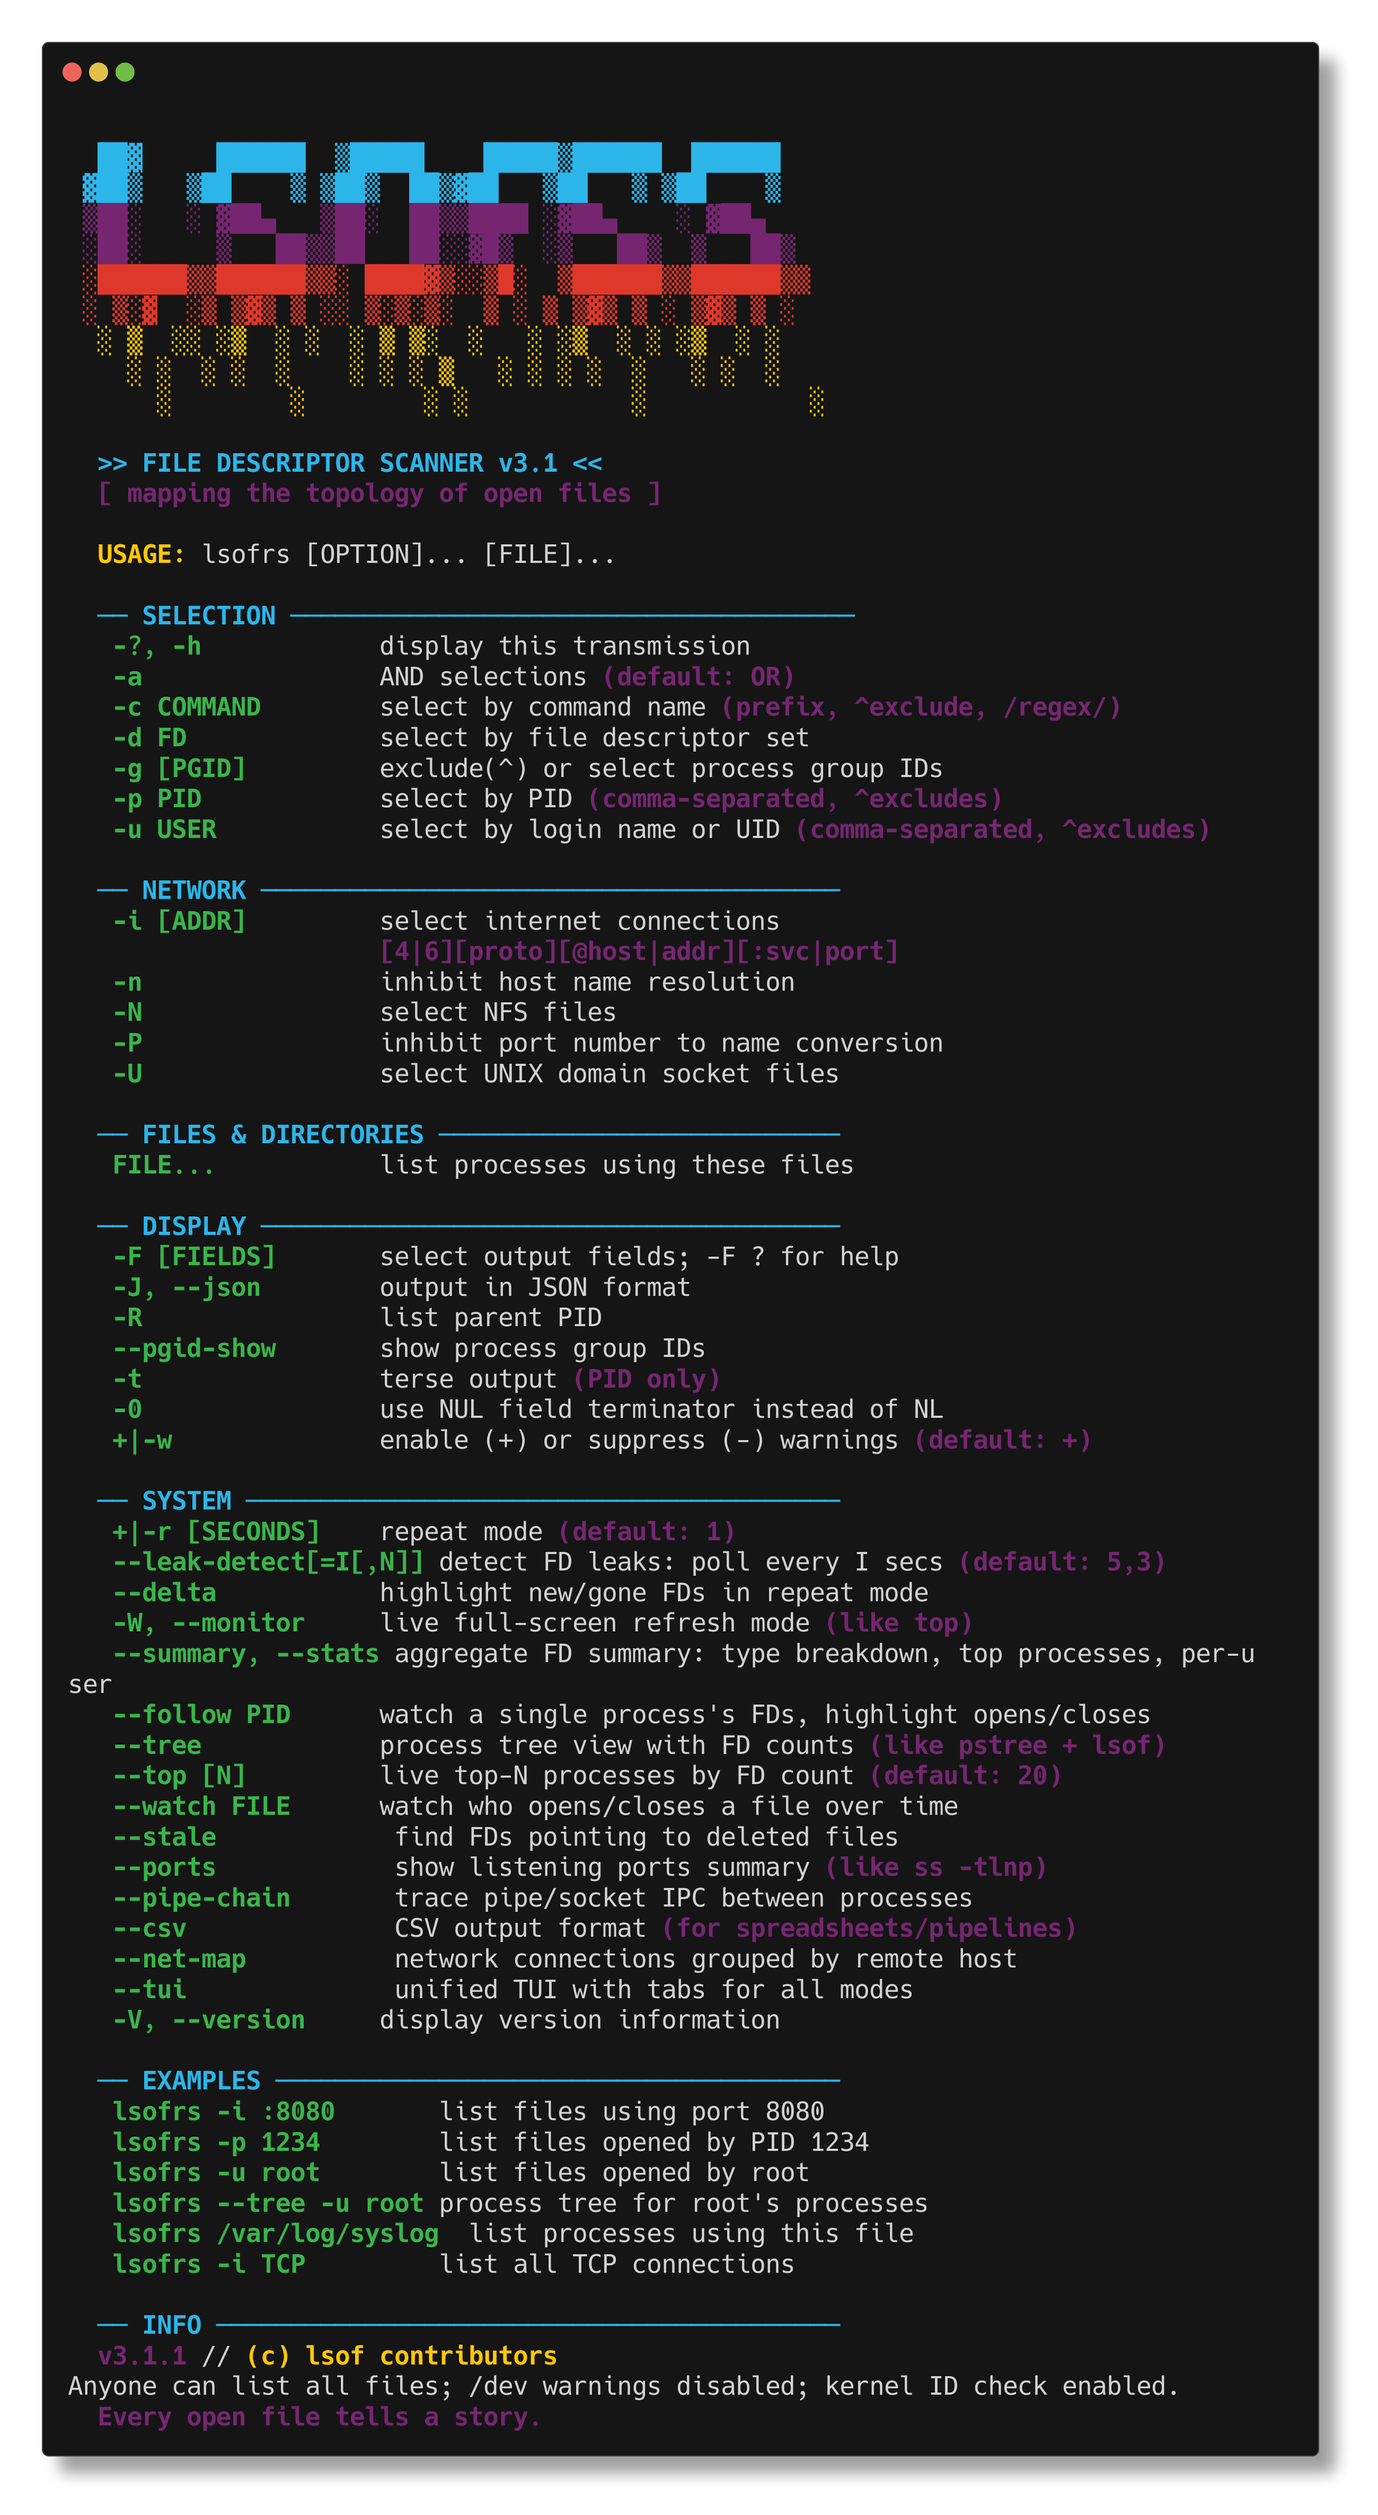
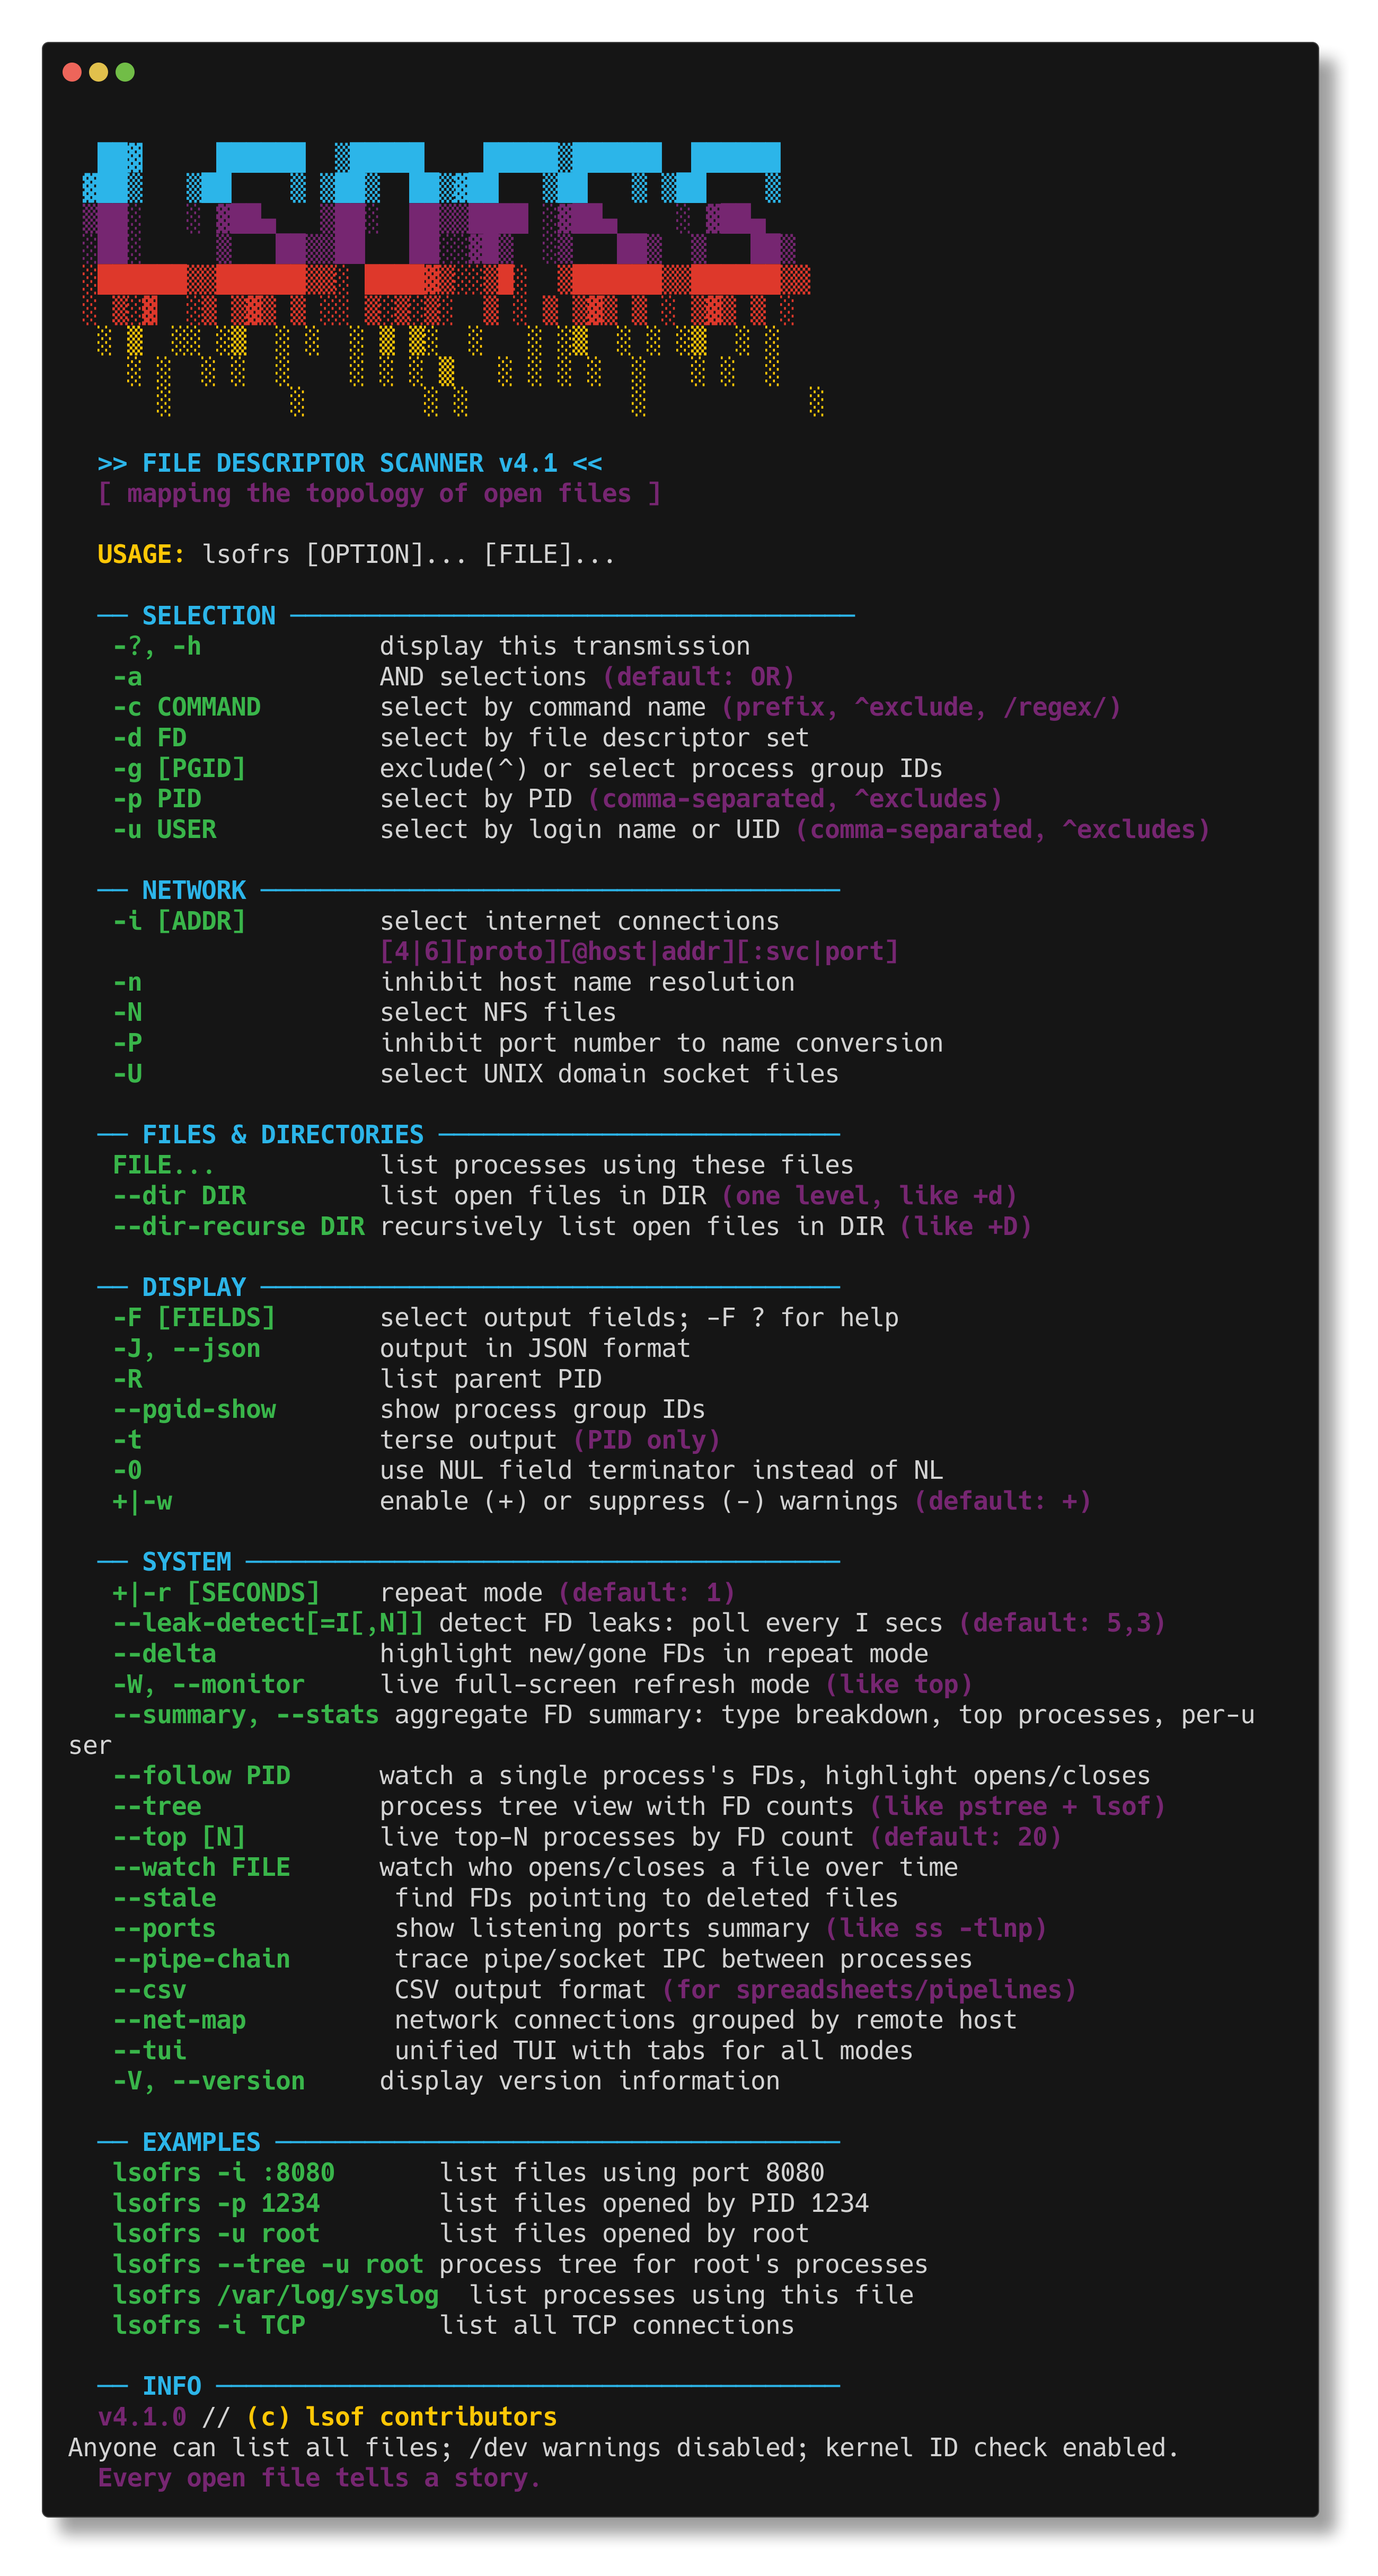
Bump v4.1.0: +d/+D directory scanning, updated screenshot

diff --git a/src/cli.rs b/src/cli.rs
@@ -5,7 +5,7 @@ use clap::Parser;
 #[derive(Parser, Debug)]
 #[command(
     name = "lsofrs",
-    version = "4.0.0",
+    version = "4.1.0",
     about = "List System Open Files — modern Rust implementation",
     author = "Jacob Menke",
     long_about = "lsofrs maps the relationship between processes and the files they hold open.\n\
@@ -188,7 +188,7 @@ impl Args {
 {dyellow}    ░ ░  ░ ░  ░    ░ ░ ░ ▒   ░ ░ ░ ░  ░   ░ ░  ░ {reset}
 {dyellow}      ░        ░        ░ ░           ░           ░{reset}
 
-{cyan}  >> FILE DESCRIPTOR SCANNER v4.0 << {reset}
+{cyan}  >> FILE DESCRIPTOR SCANNER v4.1 << {reset}
 {magenta}  [ mapping the topology of open files ]{reset}
 
 {yellow}  USAGE:{reset} lsofrs [OPTION]... [FILE]...
@@ -251,7 +251,7 @@ impl Args {
 {green}   lsofrs -i TCP         {reset}list all TCP connections
 
 {cyan}  ── INFO ──────────────────────────────────────────{reset}
-{magenta}  v4.0.0 {reset}// {yellow}(c) lsof contributors{reset}
+{magenta}  v4.1.0 {reset}// {yellow}(c) lsof contributors{reset}
 Anyone can list all files; /dev warnings disabled; kernel ID check enabled.
 {magenta}  Every open file tells a story.{reset}"#,
         );

diff --git a/README.md b/README.md
@@ -24,7 +24,7 @@
 
 ## // WHAT IS THIS
 
-**lsofrs** — **L**ist **S**ystem **O**pen **F**iles in **R**u**s**t — v4.0.0
+**lsofrs** — **L**ist **S**ystem **O**pen **F**iles in **R**u**s**t — v4.1.0
 
 A Rust rewrite of [lsofng](https://github.com/MenkeTechnologies/lsofng), the modernized lsof diagnostic tool. Maps the invisible topology between processes and the files they hold open: regular files, directories, sockets, pipes, devices, kqueues — anything the kernel touches.
 
